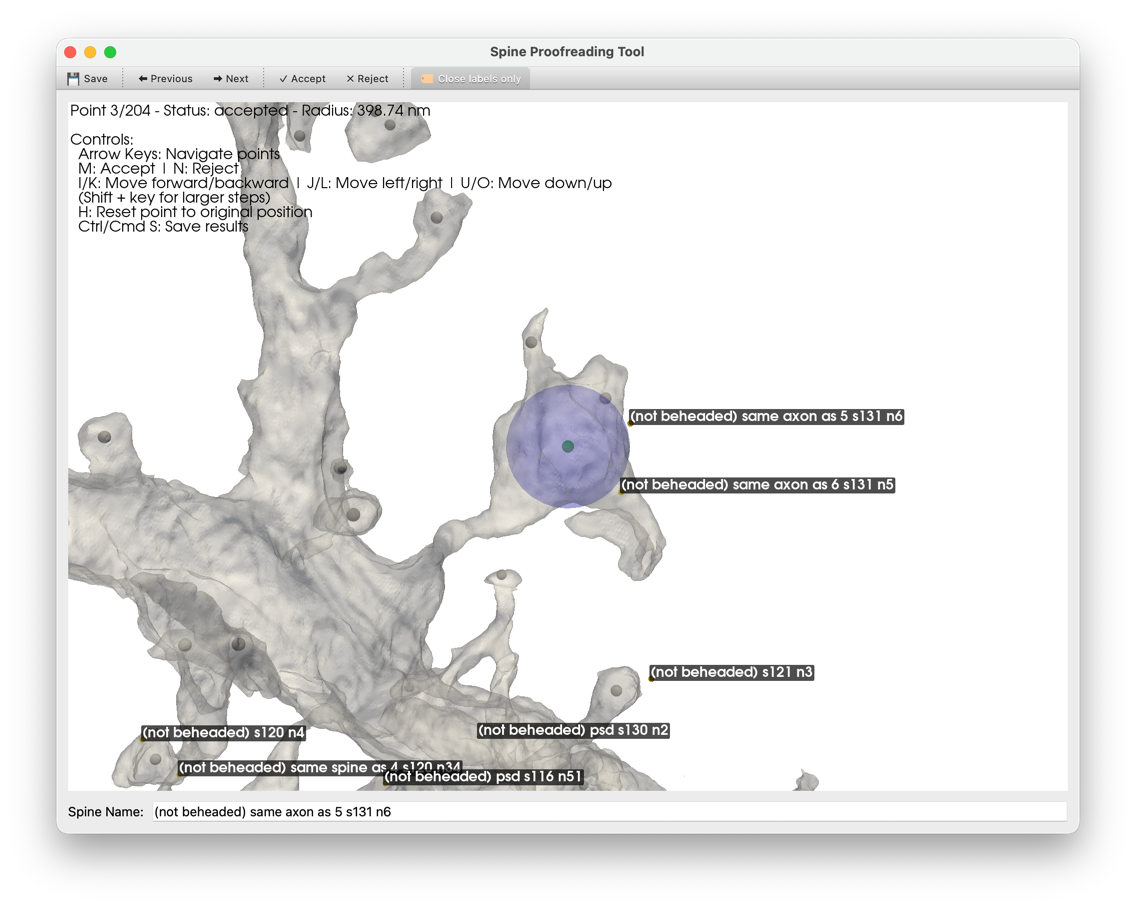
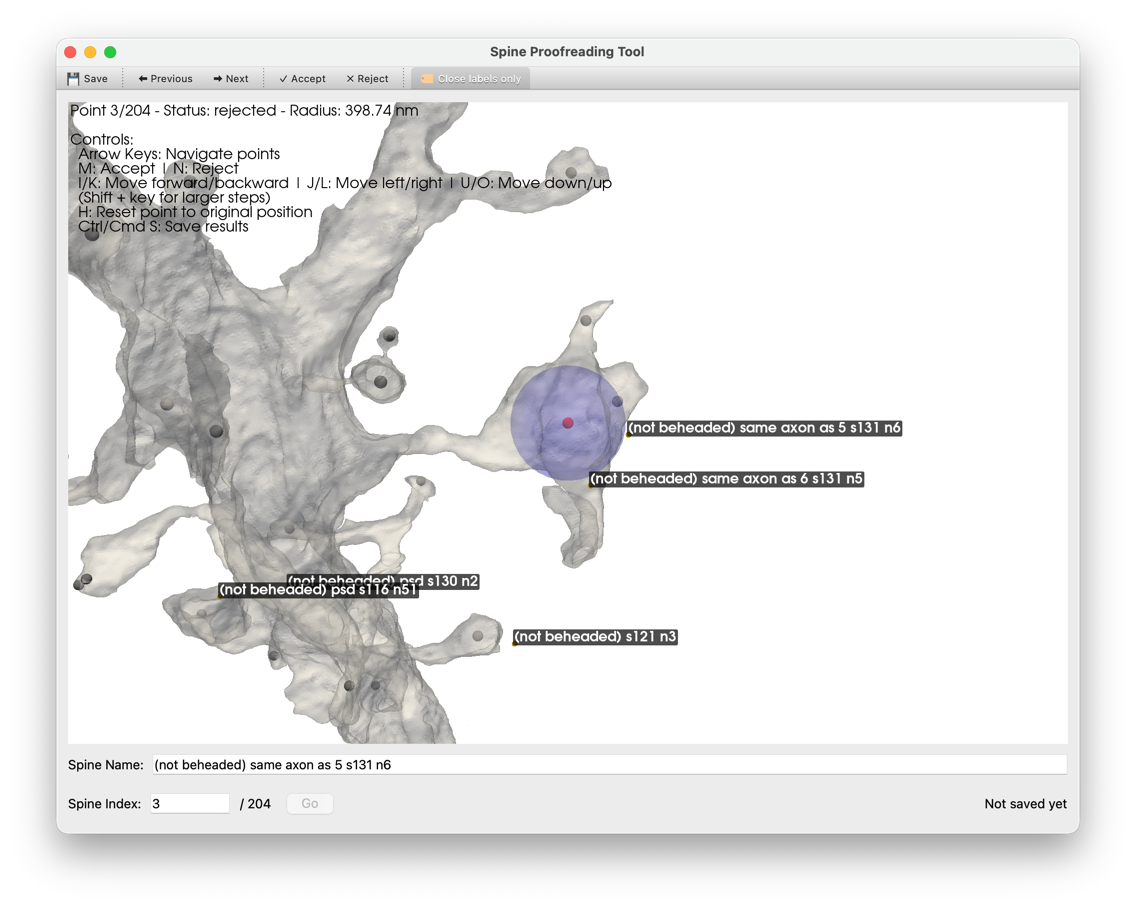
Update user guide to reflect new changes

Changed region(s): [[0.0616, 0.0925, 0.8011, 0.9251], [0.8627, 0.8634, 0.9551, 0.8943], [0.6778, 0.8326, 0.7394, 0.8634]]

diff --git a/USER_GUIDE.md b/USER_GUIDE.md
@@ -14,7 +14,7 @@ Then, choose a DSB file to load.
 
 ![Opening a DSB file](images/user_guide/opening.png)
 
-The program may freeze for up to one minute while it loads the DSB file and initializes the visualization.
+The program may freeze or disappear for up to one minute while it loads the DSB file and initializes the visualization.
 
 ## Proofreader Menu
 
@@ -24,13 +24,13 @@ After you open a .dsb file, you will see a window visualizing the 3D neuron data
 
 Use the following controls to move the camera:
 
-| Action             | Control                            |
-|--------------------|------------------------------------|
-| Orbit Camera       | Left Click + Drag                  |
-| Translate Camera   | Shift + Left Click + Drag          |
-| Zoom Camera        | Right Click + Drag OR Scroll Wheel |
-| Rotate Camera      | Command + Left Click + Drag        |
-| View Entire Neuron | R                                  |
+| Action             | Control                                                |
+|--------------------|--------------------------------------------------------|
+| Orbit Camera       | Left Click + Drag                                      |
+| Translate Camera   | Shift + Left Click + Drag OR Middle Mouse Click + Drag |
+| Zoom Camera        | Right Click + Drag OR Scroll Wheel                     |
+| Rotate Camera      | Command + Left Click + Drag                            |
+| View Entire Neuron | R                                                      |
 
 Use the following controls to change how the visualization looks:
 
@@ -51,13 +51,19 @@ You may also use the following keyboard shortcuts:
 | Accept Spine Head       | M       |
 | Reject Spine Head       | N       |
 
-### Moving to the next spine
+### Moving to the next spine head
 
 To proofread the next or previous spine head, use the "Previous" or "Next" buttons in the toolbar.
 
 You may also use the left and right arrow keys to move to the previous or next spine head.
 
 The buttons and arrow keys wrap around. For example, advancing from the final spine head displays the first, and moving backward from the first displays the final.
+
+### Jumping to a spine head
+
+You may jump to a given spine head index by editing the value in the "spine index" field on the bottom of the proofreader window. Then click "Go" to jump to that spine.
+
+![Jumping to a spine](images/user_guide/jump.png)
 
 ### Adjusting spine head position
 
@@ -99,5 +105,9 @@ You can adjust the name of the currently-selected spine head by editing the text
 You may use the "Save" button in the toolbar or the keyboard shortcut Ctrl/Cmd + S to save. It is recommended to save often.
 
 The first save may take several minutes because the proofreader needs to compute spine head radii for all points. While saving for the first time, the window will freeze. Do not close it to avoid losing progres.  Any subsequent saves should be near instant.
+
+You can see the last time you saved in the session on the bottom right of the proofreader window. 
+
+![Last saved time](images/user_guide/last_saved.png)
 
 If you reload a dsb file after saving, the proofreader will remember all spine head names, accepts/rejects, and spine head position adjustments that you made.
